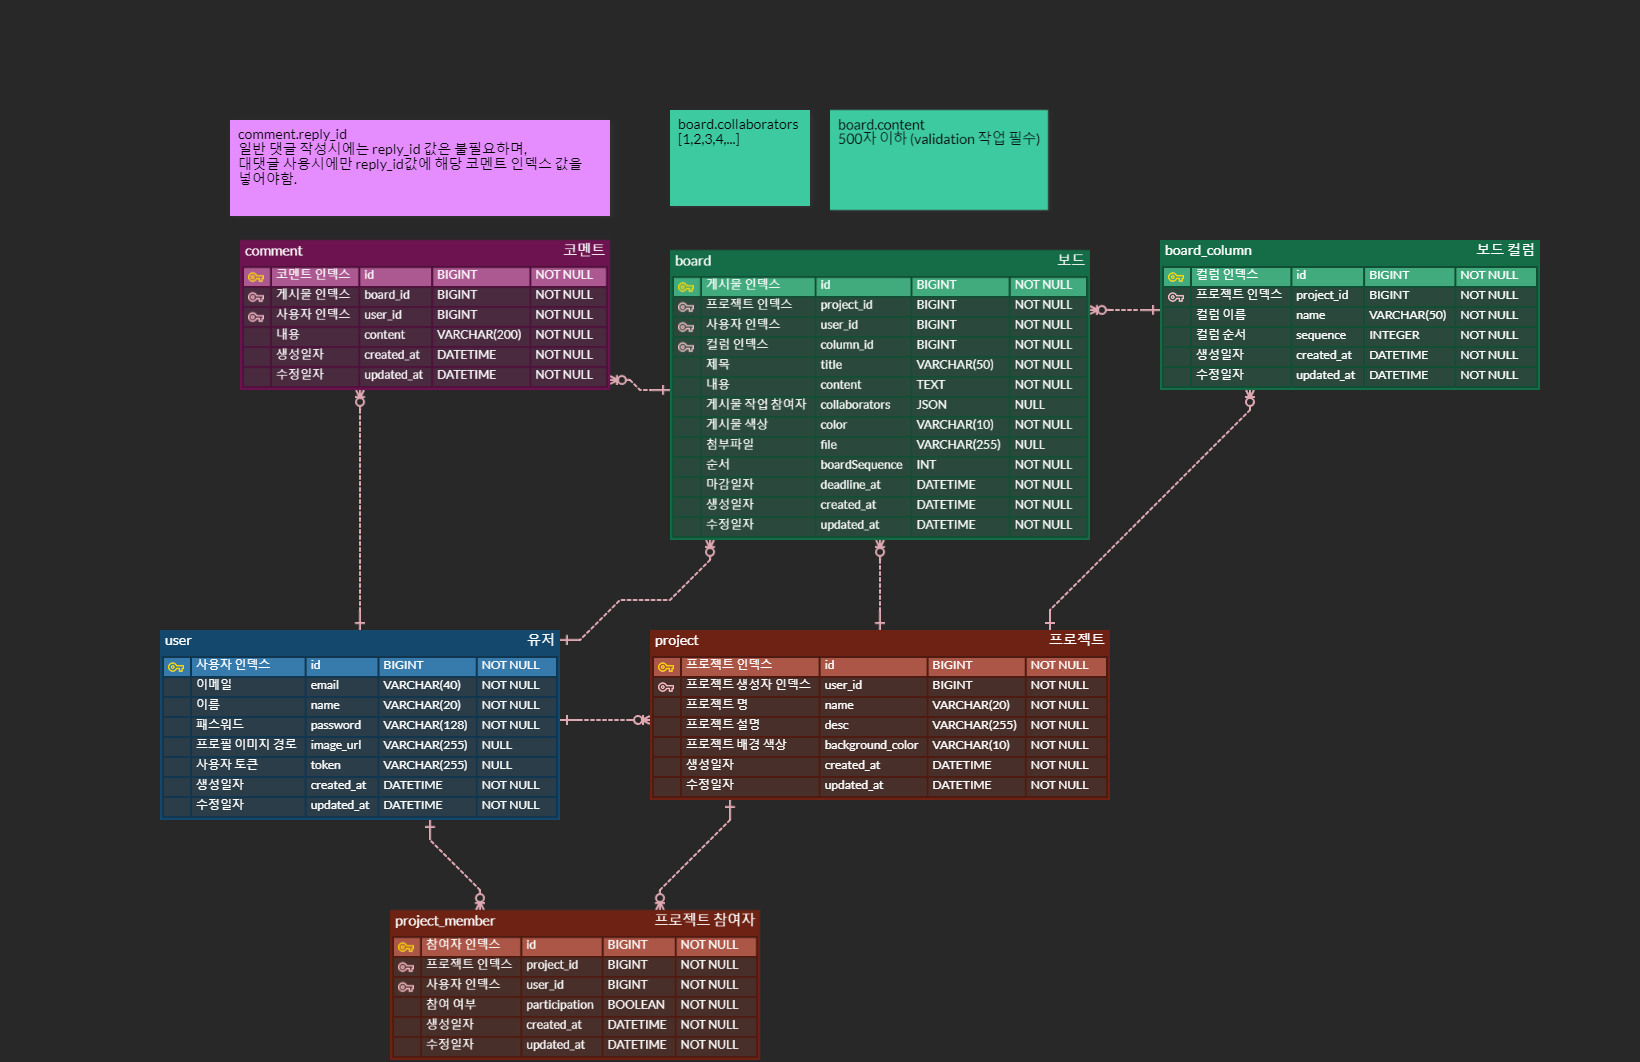
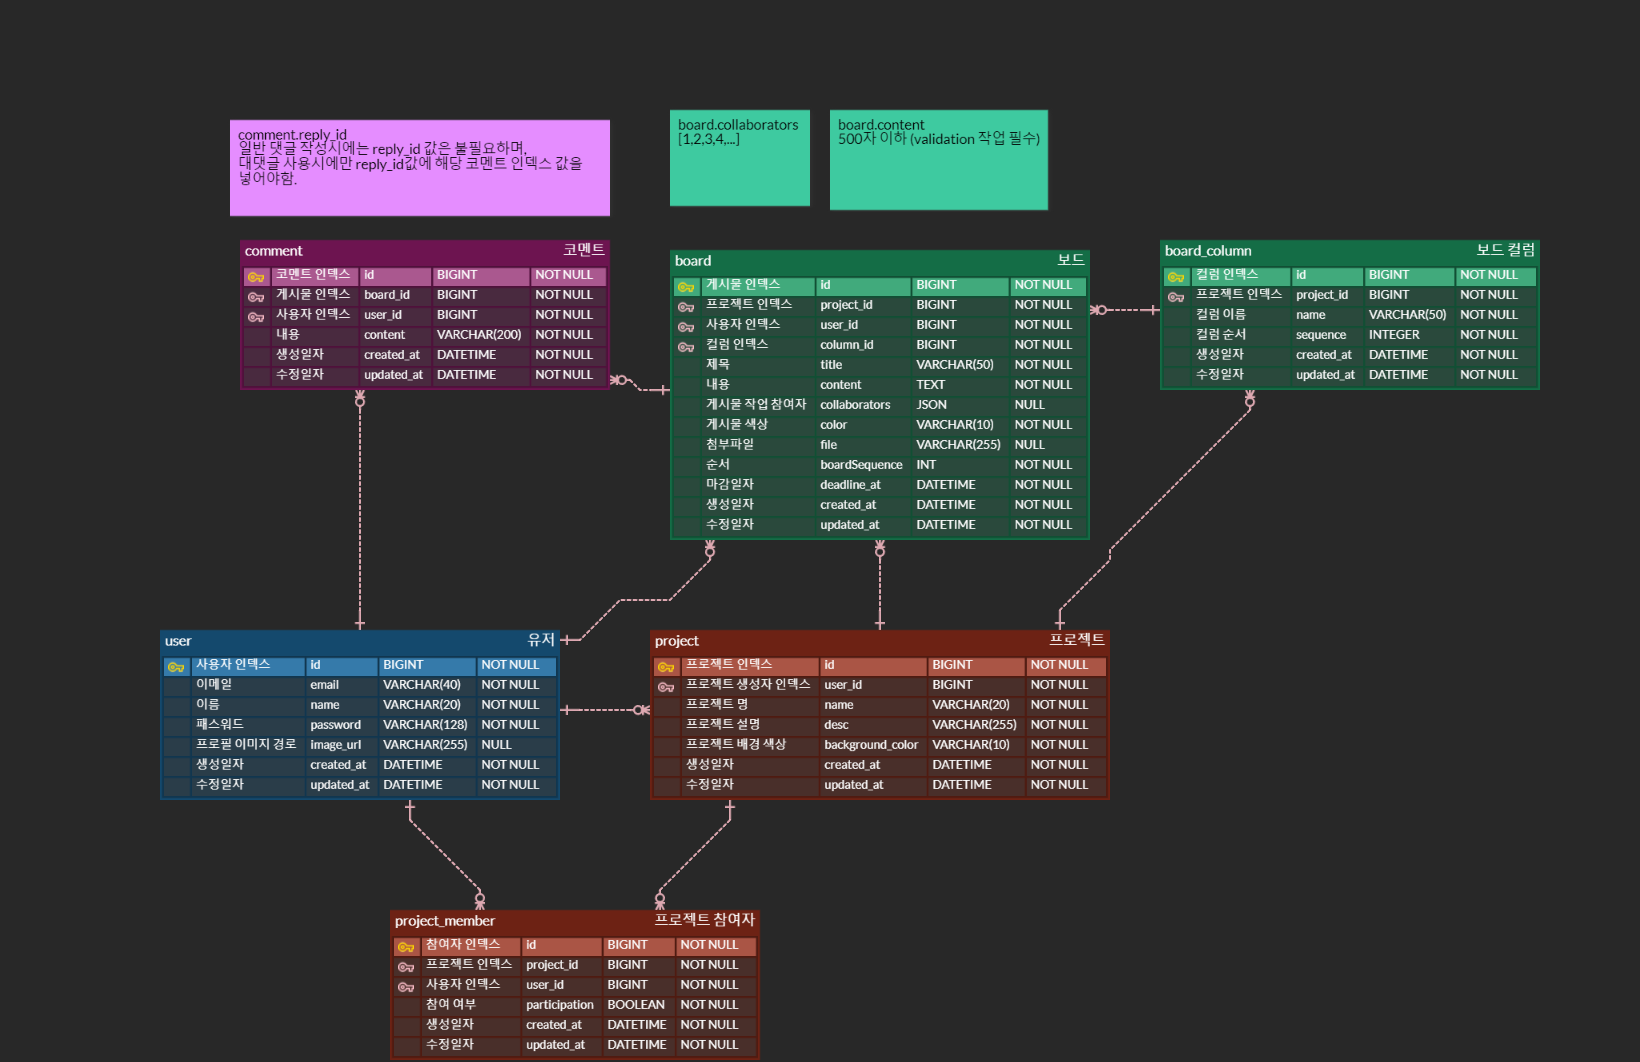
docs : update README

diff --git a/src/_common/entities/user.entity.ts b/src/_common/entities/user.entity.ts
@@ -21,9 +21,6 @@ export class User {
   @Column({ nullable: true })
   imageUrl: string;
 
-  @Column({ nullable: true })
-  token: string;
-
   @CreateDateColumn()
   createdAt: Date;
 
